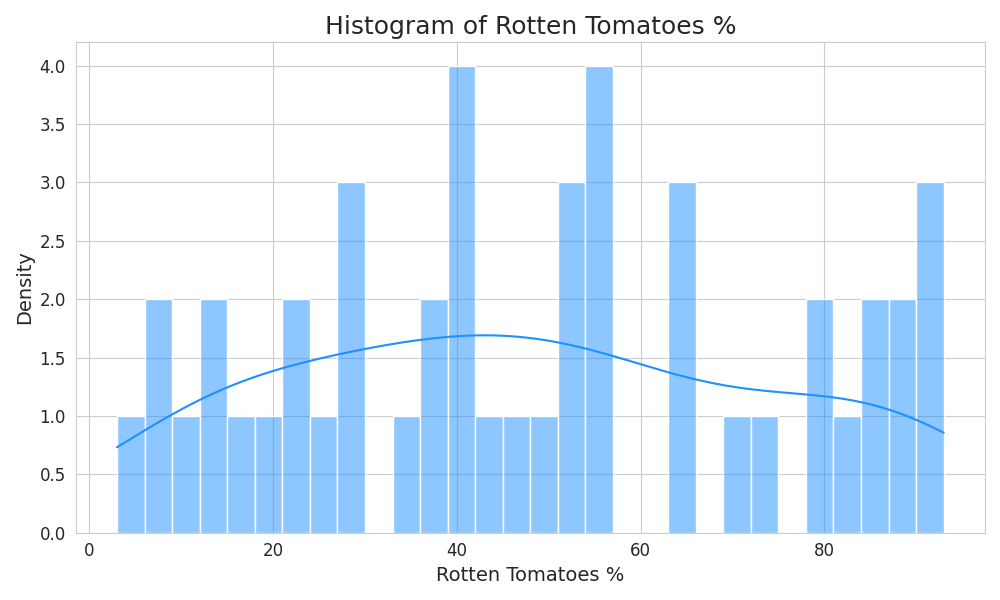
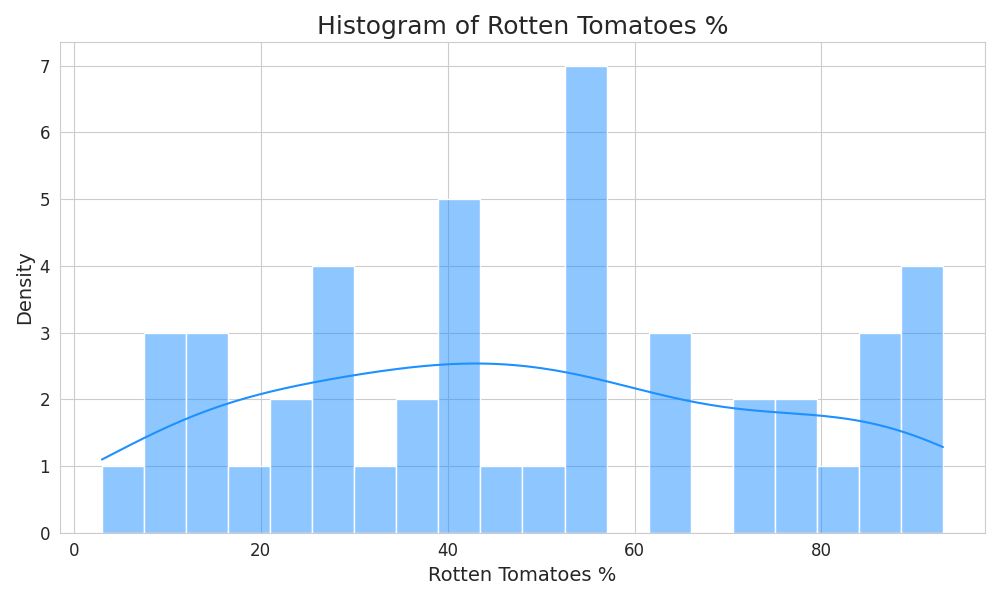
changed pandas to polars

diff --git a/main.py b/main.py
@@ -1,11 +1,16 @@
-import pandas as pd
+import polars as pl
 import seaborn as sns
+import matplotlib.pyplot as plt
+
 def load_data(url):
-    df = pd.read_csv(url, skiprows=range(1, 32))  # Adjust the range as needed
+    df = pl.read_csv(url)
+    # Skipping the first 31 rows. 
+    df = df.slice(31, len(df) - 31)  
     return df
 
+
 def get_summary_statistics(df):
-    return df.describe()
+    return df.describe().to_pandas()
 
 def get_mean(df, column_name):
     return df[column_name].mean()
@@ -16,15 +21,16 @@ def get_median(df, column_name):
 def get_stdev(df, column_name):
     return df[column_name].std()
 
-import matplotlib.pyplot as plt
-
 def plot_histogram_save(df, column_name, filename='histogram.png'):
+    # Convert to pandas for plotting using seaborn and matplotlib
+    df_pandas = df.to_pandas()
+    
     # Using seaborn styles
     sns.set_style("whitegrid")
     
     # Create the histogram
     plt.figure(figsize=(10, 6))  # Set figure size for larger plot
-    sns.histplot(df[column_name], kde=True, color="dodgerblue", bins=30)  # KDE shows density curve
+    sns.histplot(df_pandas[column_name], kde=True, color="dodgerblue", bins=20)  # KDE shows density curve
     plt.title(f'Histogram of {column_name}', fontsize=18)
     plt.xlabel(column_name, fontsize=14)
     plt.ylabel('Density', fontsize=14)
@@ -37,21 +43,21 @@ def plot_histogram_save(df, column_name, filename='histogram.png'):
     plt.close()  # Close the figure to free up memory
     return filename
 
-
 url = 'https://gist.githubusercontent.com/tiangechen/b68782efa49a16edaf07dc2cdaa855ea/raw/0c794a9717f18b094eabab2cd6a6b9a226903577/movies.csv'
 df = load_data(url)
 
 # Print summary statistics
 print(get_summary_statistics(df))
 
-md = df.to_markdown()
+md = df.to_pandas().to_markdown()
+
 with open('generated_markdown.md','w') as f:
     f.write(md)
-# Assuming the dataset has a column named 'rating' 
-# (adjust column names based on the actual dataset columns)
+
+# Assuming the dataset has a column named 'Rotten Tomatoes %'
 print(f"Mean of 'Rotten Tomatoes %': {get_mean(df, 'Rotten Tomatoes %')}")
 print(f"Median of 'Rotten Tomatoes %': {get_median(df, 'Rotten Tomatoes %')}")
 print(f"Standard Deviation of 'Rotten Tomatoes %': {get_stdev(df, 'Rotten Tomatoes %')}")
 
-# Plotting a histogram for 'rating'
-fname= plot_histogram_save(df, 'Rotten Tomatoes %')
+# Plotting a histogram for 'Rotten Tomatoes %'
+fname = plot_histogram_save(df, 'Rotten Tomatoes %')
